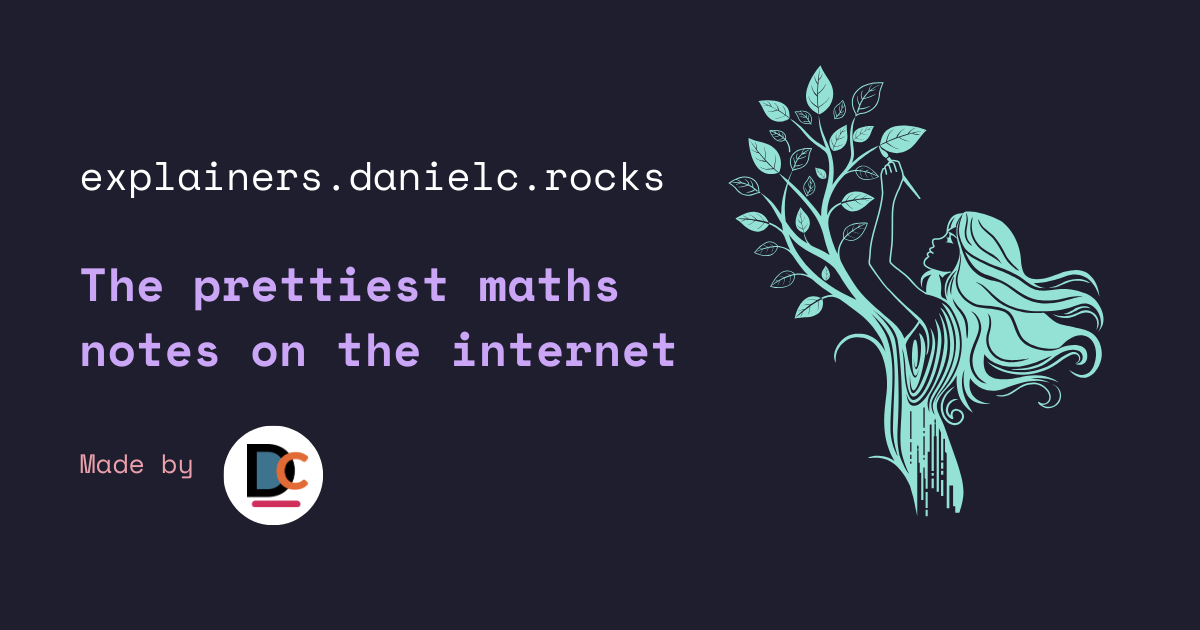
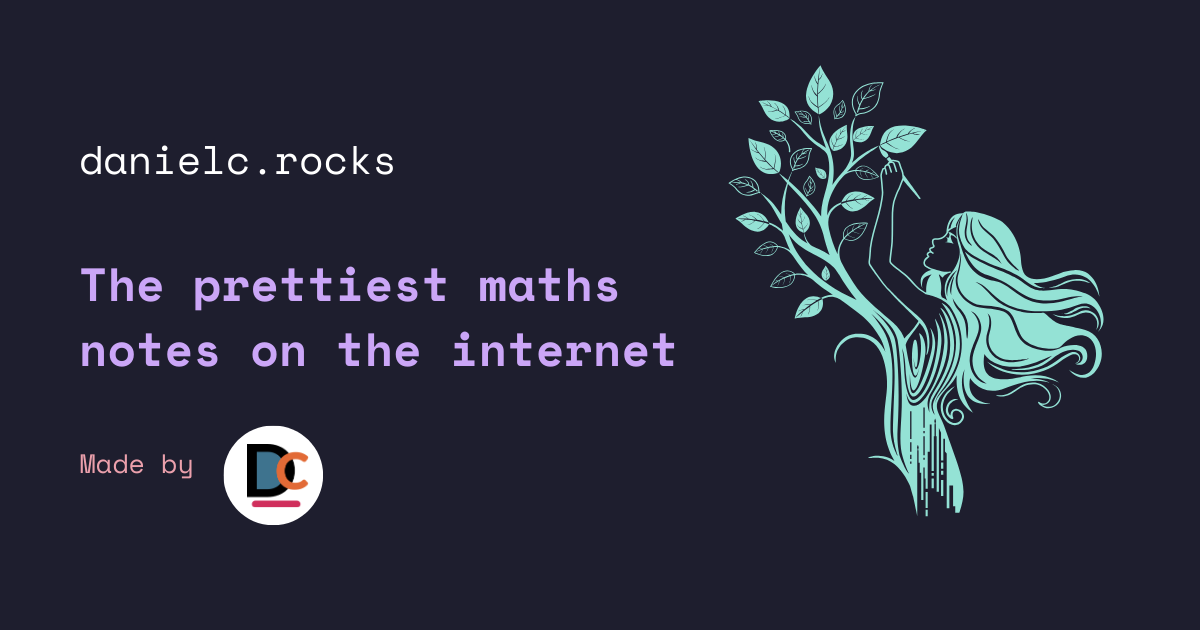
update domain notes.danielc.rocks -> danielc.rocks

Changed region(s): [[0.0617, 0.2413, 0.555, 0.3016]]

diff --git a/ssg/site-assets/danielc/app/layout.js b/ssg/site-assets/danielc/app/layout.js
@@ -50,10 +50,10 @@ export default function RootLayout({ children }) {
   return (
     <html lang="en" suppressHydrationWarning>
       <Head>
-        <meta property="og:site_name" content="notes.danielc.rocks" />
+        <meta property="og:site_name" content="danielc.rocks" />
         <meta property="og:title" content="Daniel's Notes" />
         <meta property="og:description" content="Mathematical explanations and insights" />
-        <meta property="og:image" itemprop="image" content="https://notes.danielc.rocks/og-image.png" />
+        <meta property="og:image" itemprop="image" content="https://danielc.rocks/og-image.png" />
         <meta property="og:type" content="website" />
         <meta name="twitter:card" content="summary_large_image" />
         <meta name="apple-mobile-web-app-title" content="Daniel's Notes" />

diff --git a/ssg/configs/danielc.py b/ssg/configs/danielc.py
@@ -1,5 +1,5 @@
 SITE_ID = 'danielc'
-DOMAIN = 'notes.danielc.rocks'
+DOMAIN = 'danielc.rocks'
 
 # terminology (displayed to users)
 TERMINOLOGY = {
@@ -86,6 +86,6 @@ FAQ = [
     },
     {
         'question': 'Hey, this website looks familiar...',
-        'answer': '''You're thinking of your other favourite website, <DiscreetLink href="https://notes.danielc.rocks">notes.danielc.rocks</DiscreetLink>! I generate both sites using the same code <ProminentLink href="https://github.com/dnzc/notes">[github]</ProminentLink>. This leads to consistent, maths-first styling across both sites.'''
+        'answer': '''You're thinking of your other favourite website, <DiscreetLink href="https://tripos.guru">tripos.guru</DiscreetLink>! I generate both sites using the same code <ProminentLink href="https://github.com/dnzc/notes">[github]</ProminentLink>. This leads to consistent, maths-first styling across both sites.'''
     }
 ]

diff --git a/ssg/configs/tripos.py b/ssg/configs/tripos.py
@@ -86,6 +86,6 @@ FAQ = [
     },
     {
         'question': 'Hey, this website looks familiar...',
-        'answer': '''You're thinking of your other favourite website, <DiscreetLink href="https://notes.danielc.rocks">notes.danielc.rocks</DiscreetLink>! I generate both sites using the same code <ProminentLink href="https://github.com/dnzc/notes">[github]</ProminentLink>. This leads to consistent, maths-first styling across both sites.'''
+        'answer': '''You're thinking of your other favourite website, <DiscreetLink href="https://danielc.rocks">danielc.rocks</DiscreetLink>! I generate both sites using the same code <ProminentLink href="https://github.com/dnzc/notes">[github]</ProminentLink>. This leads to consistent, maths-first styling across both sites.'''
     }
 ]

diff --git a/README.md b/README.md
@@ -3,7 +3,7 @@
 This repository contains the source content for two websites generated using a shared static site generator:
 
 - **[tripos.guru](https://tripos.guru)** - Cambridge Mathematical Tripos course notes
-- **[notes.danielc.rocks](https://notes.danielc.rocks)** - Mathematical insights and explanations
+- **[danielc.rocks](https://danielc.rocks)** - Mathematical insights and explanations
 
 ## Static Site Generator (SSG)
 
@@ -54,7 +54,7 @@ Each site has its own configuration in `ssg/configs/`:
 
 Each site deploys independently:
 - **tripos.guru**: Vercel deployment from `deployments/tripos/`
-- **notes.danielc.rocks**: Vercel deployment from `deployments/danielc/`
+- **danielc.rocks**: Vercel deployment from `deployments/danielc/`
 
 The SSG runs automatically during deployment. Generated directories are not tracked in git and are built fresh on each deployment. The folders in `deployments/` are completely auto-generated, including the vercel.json files (these are included solely for the vercel build process, which runs `ssg/run.py` then `npm run build`, but it unfortunately needs the boilerplate files like package.json to deterine what stuff to install before running the ssg, therefore we still need to track these)
 
